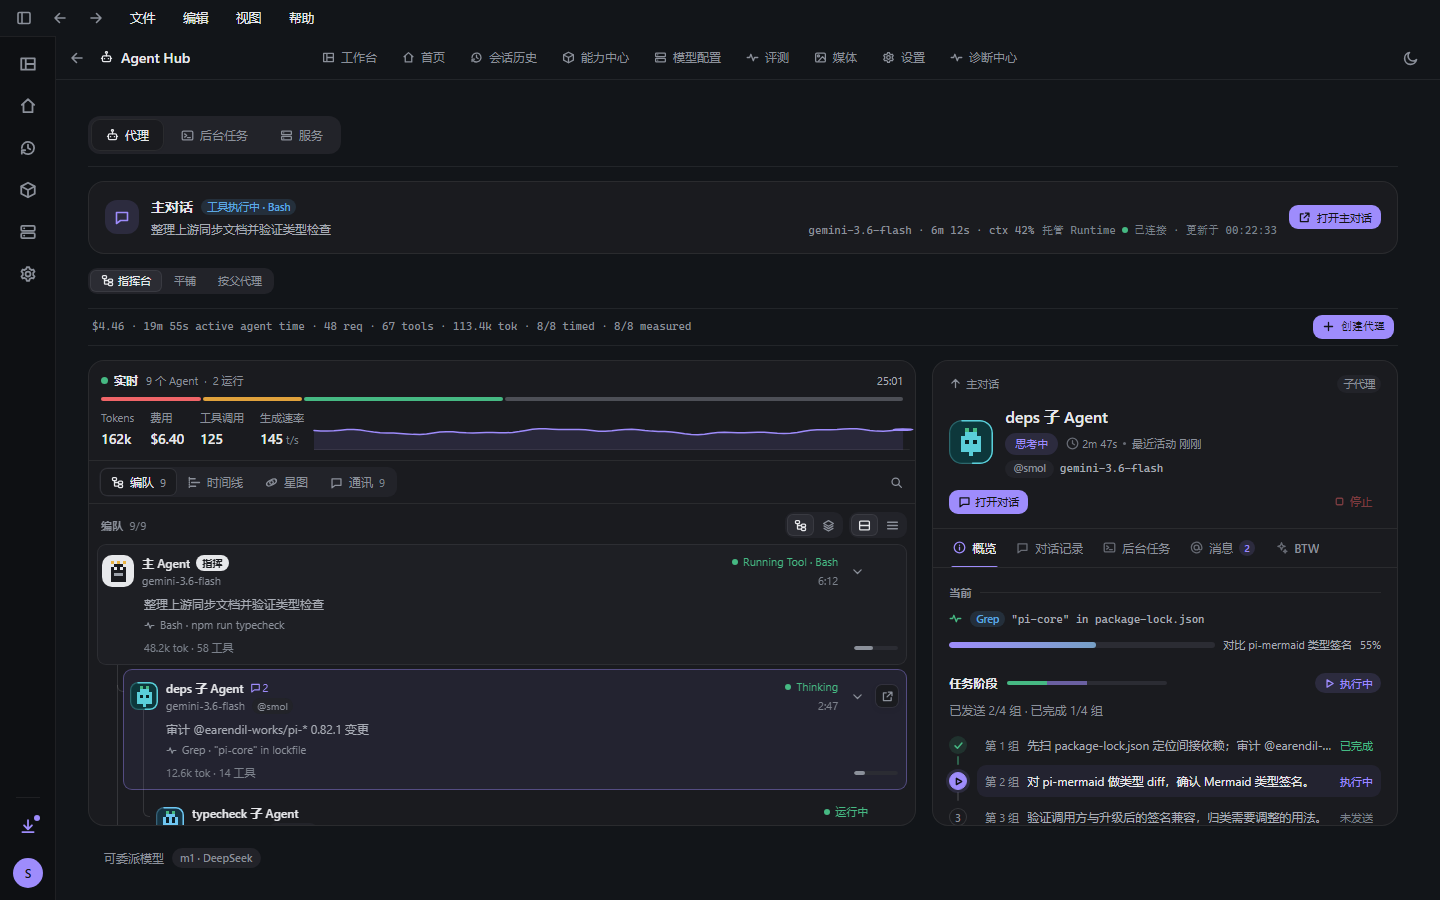
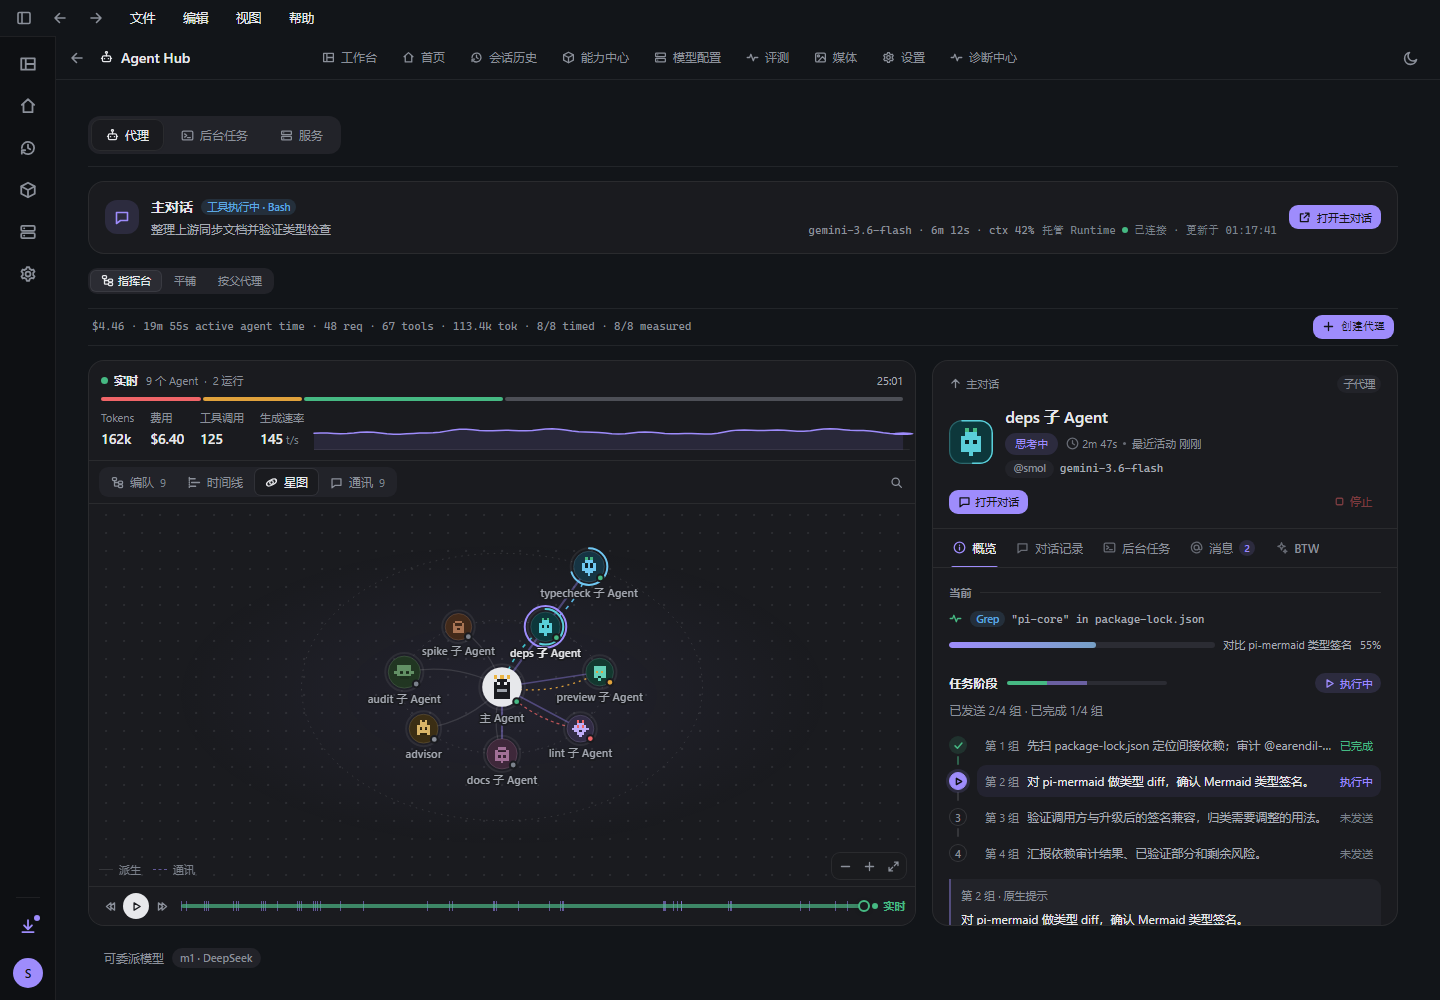
docs: feature the Agent Hub Orbit view

diff --git a/README.en.md b/README.en.md
@@ -214,7 +214,7 @@ Save workspace snapshots per turn, preview file changes, and restore code only, 
 <td width="50%" valign="top">
 <picture>
   <source media="(prefers-color-scheme: dark)" srcset="docs/readme/agent-hub-dark.webp">
-  <img src="docs/readme/agent-hub-light.webp" width="100%" alt="Agent Hub: status, usage, and cost for the main session and subagents">
+  <img src="docs/readme/agent-hub-light.webp" width="100%" alt="Agent Hub Orbit view showing agent relationships, communication, and the selected subagent details">
 </picture>
 <h3>Agent Hub</h3>
 Inspect status, request counts, Token usage, and spend for the main conversation and all subagents in one place; supports worker subagents, task files, and per-subagent account policies.
